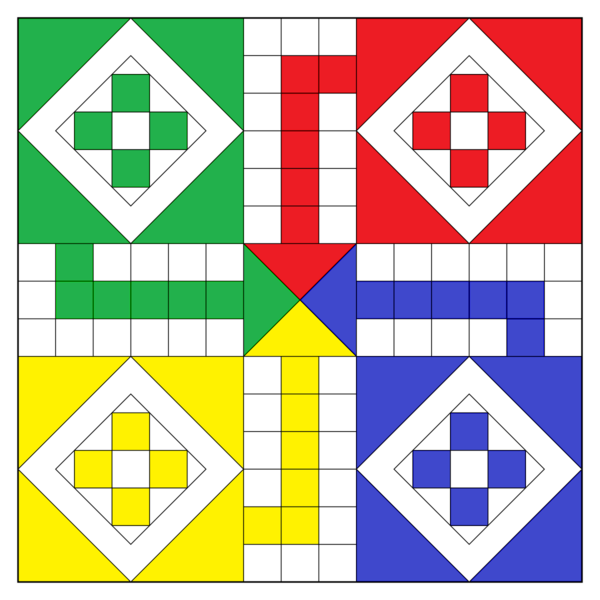
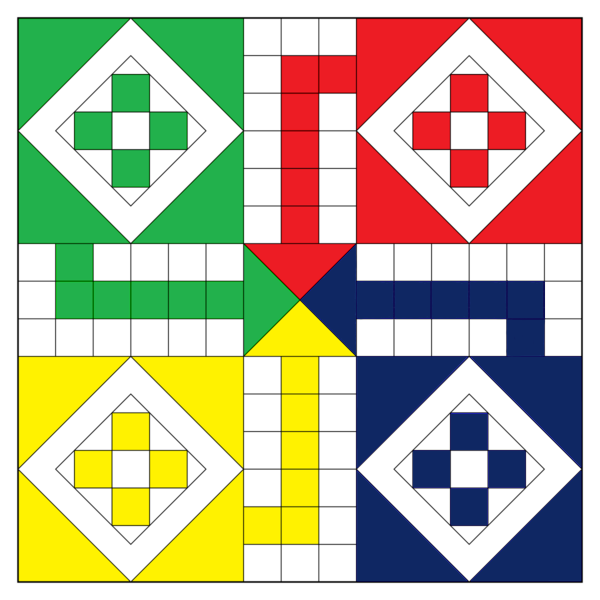
creating lobby

diff --git a/client.py b/client.py
@@ -23,11 +23,10 @@ import user
 
 WHITE = (255, 255, 255)
 BLACK = (0, 0, 0)
+GREEN = (34, 177, 76)
+RED = (237, 28, 36)
 BLUE = (15, 39, 99)
-RED = (244, 0, 38)
-GREEN = (74, 145, 35)
-YELLOW = (242, 209, 17)
-ORANGE = (242, 118, 9)
+YELLOW = (255, 242, 0)
 
 CARD_WIDTH = 80
 CARD_HEIGHT = 140
@@ -70,6 +69,8 @@ class App():
 
 		self.user = None
 		self.show_info = False
+		self.network = None
+		self.player = None
 
 
 	def background_music(self):
@@ -106,14 +107,14 @@ class App():
 			Text(self.screen, 'PLEASE ENTER YOUR INFORMATION', (self.width/2, 50), BLUE, text_size=20, center=True)
 			Text(self.screen, 'GAME BY: SULE', (self.width-25, self.height-25), WHITE, text_size=14, right=True)
 
-			# Draw left part of screen
+			# Draw bottom part of screen
 			Text(self.screen, 'ENTER USERNAME:', (self.width/2-120, self.height-160), WHITE, text_size=18)
 			login_name.draw()
 			Text(self.screen, 'ENTER PASSWORD:', (self.width/2-120, self.height-110), WHITE, text_size=18)
 			login_pass.draw()
 			login_button.draw()
 
-			# Draw right part of screen
+			# Draw top part of screen
 			Text(self.screen, 'ENTER USERNAME:', (self.width/2-120, 70), WHITE, text_size=18)
 			register_name.draw()
 			Text(self.screen, 'ENTER E-MAIL:', (self.width/2-120, 120), WHITE, text_size=18)
@@ -129,7 +130,7 @@ class App():
 					if self.user != None:
 						self.main_menu()
 					else:
-						Text(self.screen, 'WRONG USERNAME OR PASSWORD.', (self.width - 40, 320), RED, text_size=22, right=True)
+						Text(self.screen, 'WRONG USERNAME OR PASSWORD.', (self.width/2,  self.height-180), BLUE, text_size=28, center=True)
 						login_name.clear()
 						login_pass.clear()
 
@@ -145,7 +146,7 @@ class App():
 						register_mail.clear()
 						register_pass.clear()
 						
-						Text(self.screen, 'SUCCESSFULY REGISTERED, USE THAT INFO TO LOGIN.', (self.width - 40, 320), RED, text_size=22, right=True)
+						Text(self.screen, 'SUCCESSFULY REGISTERED, USE THAT INFO TO LOGIN.', (self.width/2, self.height-180), BLUE, text_size=28, center=True)
 						pygame.display.update()
 						pygame.time.delay(1500)
 					else:
@@ -153,7 +154,7 @@ class App():
 						register_mail.clear()
 						register_pass.clear()
 						
-						Text(self.screen, 'YOU ENTERED SOME WRONG INFO. TRY AGAIN.', (self.width - 40, 320), RED, text_size=22, right=True)
+						Text(self.screen, 'YOU ENTERED SOME WRONG INFO. TRY AGAIN.', (self.width/2, self.height-180), BLUE, text_size=28, center=True)
 						pygame.display.update()
 						pygame.time.delay(1500)
 
@@ -197,9 +198,9 @@ class App():
 		click = False
 
 		button_settings = ImageButton(self.screen, 'images/main_settings.png', (120, 120), (70, self.height/2 - 70), 'settings')
-		button_play = ImageButton(self.screen, 'images/main_start.png', (120, 120), (self.width/2 - 60, self.height/2 - 50), 'start')
+		button_lobby = ImageButton(self.screen, 'images/main_start_grey.png', (160, 160), (self.width/2 - 80, self.height/2 - 120), 'start')
+		button_create = ImageButton(self.screen, 'images/main_start_red.png', (160, 160), (self.width/2 - 80, self.height/2 + 10), 'start')
 		button_admin = ImageButton(self.screen, 'images/main_admin.png', (120, 120), (self.width - 200, self.height/2 - 70), 'exit')
-		input_lobby = InputBox(self.screen, (self.width/2 - 100, self.height/2 + 90), (200, 30), '2', BLUE, WHITE)
 
 		while True:
 			pygame.display.set_caption('Ludo Club (Main Menu)')
@@ -215,32 +216,20 @@ class App():
 
 			button_settings.draw()
 			Text(self.screen, 'SETTINGS', (70 + 60, self.height/2 + 60), WHITE, text_size=24, center=True)
-			button_play.draw()
-			Text(self.screen, 'PLAY', (self.width/2, self.height/2 - 60), WHITE, text_size=24, center=True)
+			button_lobby.draw()
+			Text(self.screen, 'PICK LOBBY', (self.width/2, self.height/2 - 105), WHITE, text_size=24, center=True)
+			button_create.draw()
+			Text(self.screen, 'NEW LOBBY', (self.width/2, self.height/2 + 155), WHITE, text_size=24, center=True)
 			button_admin.draw()
 			Text(self.screen, 'ADMIN PANEL', (self.width - 210 + 70, self.height/2 + 60), WHITE, text_size=24, center=True)
-			input_lobby.draw()
-			Text(self.screen, 'ENTER LOBBY SIZE: (2-4)', (self.width/2, self.height/2 + 80), WHITE, text_size=18, center=True)
 
 			mx, my = pygame.mouse.get_pos()
 			if click:
-				if button_play.click((mx, my)):
-					try:
-						lobby_size = int(input_lobby.text)
-						input_lobby.clear()
+				if button_lobby.click((mx, my)):
+					self.pick_lobby()
 
-						if lobby_size < 2 or lobby_size > 4:
-							Text(self.screen, 'You need to enter number between 2 and 4.', (self.width/2, self.height-40), ORANGE, text_size=24, center=True)
-							pygame.display.update()
-							pygame.time.delay(1000)
-
-						else:
-							self.start_game(lobby_size)
-					except ValueError:
-						Text(self.screen, 'You need to enter number between 2 and 4.', (self.width/2, self.height-40), ORANGE, text_size=24, center=True)
-						input_lobby.clear()
-						pygame.display.update()
-						pygame.time.delay(1000)
+				elif button_create.click((mx, my)):
+					self.create_lobby()
 
 				elif button_settings.click((mx, my)):	
 					self.settings()
@@ -249,7 +238,7 @@ class App():
 					if self.user.admin:
 						self.admin_panel()
 					else:
-						Text(self.screen, 'You do not have admin permissions.', (self.width/2, self.height-40), ORANGE, text_size=24, center=True)
+						Text(self.screen, 'You do not have admin permissions.', (self.width/2, self.height-40), BLUE, text_size=24, center=True)
 						pygame.display.update()
 						pygame.time.delay(1000)
 
@@ -275,9 +264,6 @@ class App():
 
 				if event.type == MUSIC_END:
 					self.background_music()
-
-				input_lobby.handle_event(event)
-			input_lobby.update()
 
 			pygame.display.update()
 			clock.tick(60)
@@ -312,12 +298,11 @@ class App():
 			Text(self.screen, f'Current volume: {self.user.volume}', (self.width/2, 330), WHITE, text_size=18, center=True)
 			volume.draw()
 
-			save.draw()
-
 			Text(self.screen, f'Your wins: {self.user.wins}', (self.width/2, self.height-90), WHITE, text_size=18, center=True)
 			Text(self.screen, f'Your defeats: {self.user.defeats}', (self.width/2, self.height-75), WHITE, text_size=18, center=True)
 			Text(self.screen, f'REGISTRATION DATE: {self.user.register_date}', (self.width/2, self.height-60), WHITE, text_size=18, center=True)
 
+			save.draw()
 			exit_btn.draw()
 
 			mx, my = pygame.mouse.get_pos()
@@ -509,6 +494,119 @@ class App():
 
 			pygame.display.update()
 			clock.tick(60)
+
+
+
+	def create_lobby(self):
+		pygame.display.set_caption('Ludo Club (Admin Panel)')
+		run = True
+		click = False
+
+		lobby_name = InputBox(self.screen, (self.width/2 - 150, 190), (300, 30), '', BLUE, WHITE)
+		lobby_size = InputBox(self.screen, (self.width/2 - 150, 240), (300, 30), '', BLUE, WHITE)
+		lobby_pw = InputBox(self.screen, (self.width/2 - 150, 290), (300, 30), '', BLUE, WHITE)
+
+		create = Button(self.screen, 'CREATE', (self.width/2 - 150, self.height-50), (300, 30), BLUE, text_color=WHITE, border=2, border_color=WHITE)
+		exit_btn = ImageButton(self.screen, 'images/main_exit.png', (25, 25), (20, self.height - 45), 'exit')
+		while run:
+			self.screen.fill(BLACK)
+			bg = pygame.image.load("images/main_bg.jpg")
+			bg = pygame.transform.scale(bg, (self.width, self.height))
+			self.screen.blit(bg, (0, 0))
+			Text(self.screen, 'LUDO CLUB', (self.width/2, 100), BLUE, text_size=72, center=True)
+			Text(self.screen, 'CREATING NEW LOBBY', (self.width/2, 130), WHITE, text_size=24, center=True)
+			Text(self.screen, 'ENTER INFORMATION ABOUT LOBBY YOU WANT TO CREATE', (self.width/2, 145), BLUE, text_size=20, center=True)
+			Text(self.screen, 'GAME BY: SULE', (self.width-25, self.height-25), WHITE, text_size=14, right=True)
+
+			Text(self.screen, 'Enter lobby name:', (self.width/2, 180), WHITE, text_size=18, center=True)
+			lobby_name.draw()
+			Text(self.screen, 'Enter lobby size:', (self.width/2, 230), WHITE, text_size=18, center=True)
+			lobby_size.draw()
+			Text(self.screen, 'Enter lobby password:', (self.width/2, 280), WHITE, text_size=18, center=True)
+			lobby_pw.draw()
+
+			create.draw()
+			exit_btn.draw()
+
+			mx, my = pygame.mouse.get_pos()
+			if click:
+				if create.rect.collidepoint((mx, my)):
+					try:
+						size = int(lobby_size.text)
+
+						if lobby_name.text == '' or len(lobby_name.text) > 24:
+							Text(self.screen, 'You need to enter valid name for lobby.', (self.width/2, self.height-60), BLUE, text_size=24, center=True)
+							lobby_name.clear()
+							pygame.display.update()
+							pygame.time.delay(1000)
+						elif size < 2 or size > 4:
+							lobby_size.clear()
+							
+							Text(self.screen, 'You need to enter number between 2 and 4.', (self.width/2, self.height-60), BLUE, text_size=24, center=True)
+							lobby_size.clear()
+							pygame.display.update()
+							pygame.time.delay(1000)
+						else:
+							try:
+								lobby_name.text.replace(' ', '_')
+								if lobby_pw.text == '':
+									pw = None
+								else:
+									lobby_pw.text.replace(' ', '_')
+									pw = lobby_pw.text
+
+								self.network = Network(f'create {lobby_name.text} {size} {pw}')
+								self.player = int(self.network.get_p())
+
+							except:
+								Text(self.screen, 'Error while trying to connect to server.', (self.width/2, self.height-60), BLUE, text_size=24, center=True)
+								pygame.display.update()
+								pygame.time.delay(1000)
+
+					except ValueError:
+						Text(self.screen, 'You need to enter number between 2 and 4.', (self.width/2, self.height-60), BLUE, text_size=24, center=True)
+						lobby_size.clear()
+						pygame.display.update()
+						pygame.time.delay(1000)
+
+				if exit_btn.click((mx, my)):
+					run = False
+
+			click = False
+			for event in pygame.event.get():
+				if event.type == pygame.QUIT:
+					self.user.user_quit()
+					pygame.quit()
+					sys.exit()
+
+				if event.type == pygame.KEYDOWN:
+					if event.key == pygame.K_ESCAPE:
+						run = False
+
+				if event.type == pygame.MOUSEBUTTONUP:
+					if event.button == 1:
+						click = True
+
+				if event.type == MUSIC_END:
+					self.background_music()
+
+				lobby_name.handle_event(event)
+				lobby_size.handle_event(event)
+				lobby_pw.handle_event(event)
+
+			lobby_name.update()
+			lobby_size.update()
+			lobby_pw.update()
+
+			pygame.display.update()
+			clock.tick(60)
+
+	def pick_lobby(self):
+		pass
+
+
+
+
 
 
 	def draw_lobby(self, game):

diff --git a/server.py b/server.py
@@ -39,45 +39,42 @@ class Server():
 		self.games = {}
 		self.id_count = 0
 		self.last_data = -1
+		self.waiting = []
 
-		self.waiting = [[] for _ in range(4)]
-		
 		while True:
 			conn, addr = s.accept()
 			print(f'[ + ] Connected to: {addr}')
 			self.id_count += 1
 
-			lobby_size = int(conn.recv(4096).decode())
+			msg = conn.recv(4096).decode().split()
+			if msg[0] == 'create':
+				name = msg[1]
+				size = int(msg[2])
+				pw = msg[3]
+				game_id = len(self.games)
+				p = 0
+				self.games[game_id] = Game(game_id, name, size, pw)
 
-			p = None
-			for size in range(2, 4):
-				if lobby_size == size:
-					if len(self.waiting[size]) == 0:
-						game_id = len(self.games)
-						self.waiting[size].append(game_id)
+				self.waiting.append(self.games[game_id])
+				print(f'[ + ] Creating a new game... (of size {msg[2]})')
 
-						p = 0
-						self.games[game_id] = Game(game_id, lobby_size)
-						print(f'[ + ] Creating a new game... (of size {size})')
-						break
-					else:
-						game_id = self.waiting[size][0]
-						self.games[game_id].joined += 1
-						p = self.games[game_id].joined - 1
+				start_new_thread(self.threaded_clinet, (conn, p, game_id))
 
-						if self.games[game_id].joined == lobby_size:
-							self.games[game_id].ready = True
-							self.games[game_id].give_cards()
-							self.waiting[size].pop(0)
+			elif msg[0] == 'join':
+				game_id = int(msg[1])
+				pw = msg[2]
+				self.games[game_id].joined += 1
+				p = self.games[game_id].joined - 1
 
-							print(f'[ + ] Starting a new game... (of size {size})')
+				if self.games[game_id].joined == lobby_size:
+					self.games[game_id].ready = True
+					print(f'[ + ] Starting a new game... (of size {self.games[game_id].lobby_size})')
+					self.waiting.remove(self.games[game_id])
 
-
-			start_new_thread(self.threaded_clinet, (conn, p, game_id))
+				start_new_thread(self.threaded_clinet, (conn, p, game_id))
 
 	def threaded_clinet(self, conn, p, game_id):
 		conn.send(str.encode(str(p)))
-
 		while True:
 			try:
 				data = conn.recv(4096).decode()

diff --git a/network.py b/network.py
@@ -13,24 +13,24 @@ import pickle
 import json
 
 class Network():
-	def __init__(self, lobby_size):
+	def __init__(self, msg):
 		self.client = socket.socket(socket.AF_INET, socket.SOCK_STREAM)
 		self.server = 'localhost'
 		self.port = 5555
 		self.addr = (self.server, self.port)
-		self.p = self.connect(lobby_size)
+		self.p = self.connect(msg)
 
 	def get_p(self):
 		return self.p
 
-	def connect(self, lobby_size):
-		print(f'[ > ] Trying to connect to: {self.server}:{self.port}')
+	def connect(self, msg):
 		try:
+			print(f'[ > ] Trying to connect to: {self.server}:{self.port}')
 			self.client.connect(self.addr)
-			self.client.send(str.encode(str(lobby_size)))
+			self.client.send(str.encode(msg))
 			return self.client.recv(2048).decode()
 		except:
-			pass
+			print(f'[ > ] Error while trying connection to: {self.server}:{self.port}')
 
 	def send(self, data):
 		try:

diff --git a/game.py b/game.py
@@ -10,9 +10,11 @@ Created on Wed Mar 10 14:04:30 2021
 from datetime import datetime
 
 class Game():
-	def __init__(self, id, lobby_size):
+	def __init__(self, id, lobby_name, lobby_size, lobby_pw):
 		self.id = id
+		self.lobby_name = lobby_name
 		self.lobby_size = lobby_size
+		self.lobby_pw = lobby_pw
 		self.joined = 1
 		self.ready = False
 		self.winner = None
